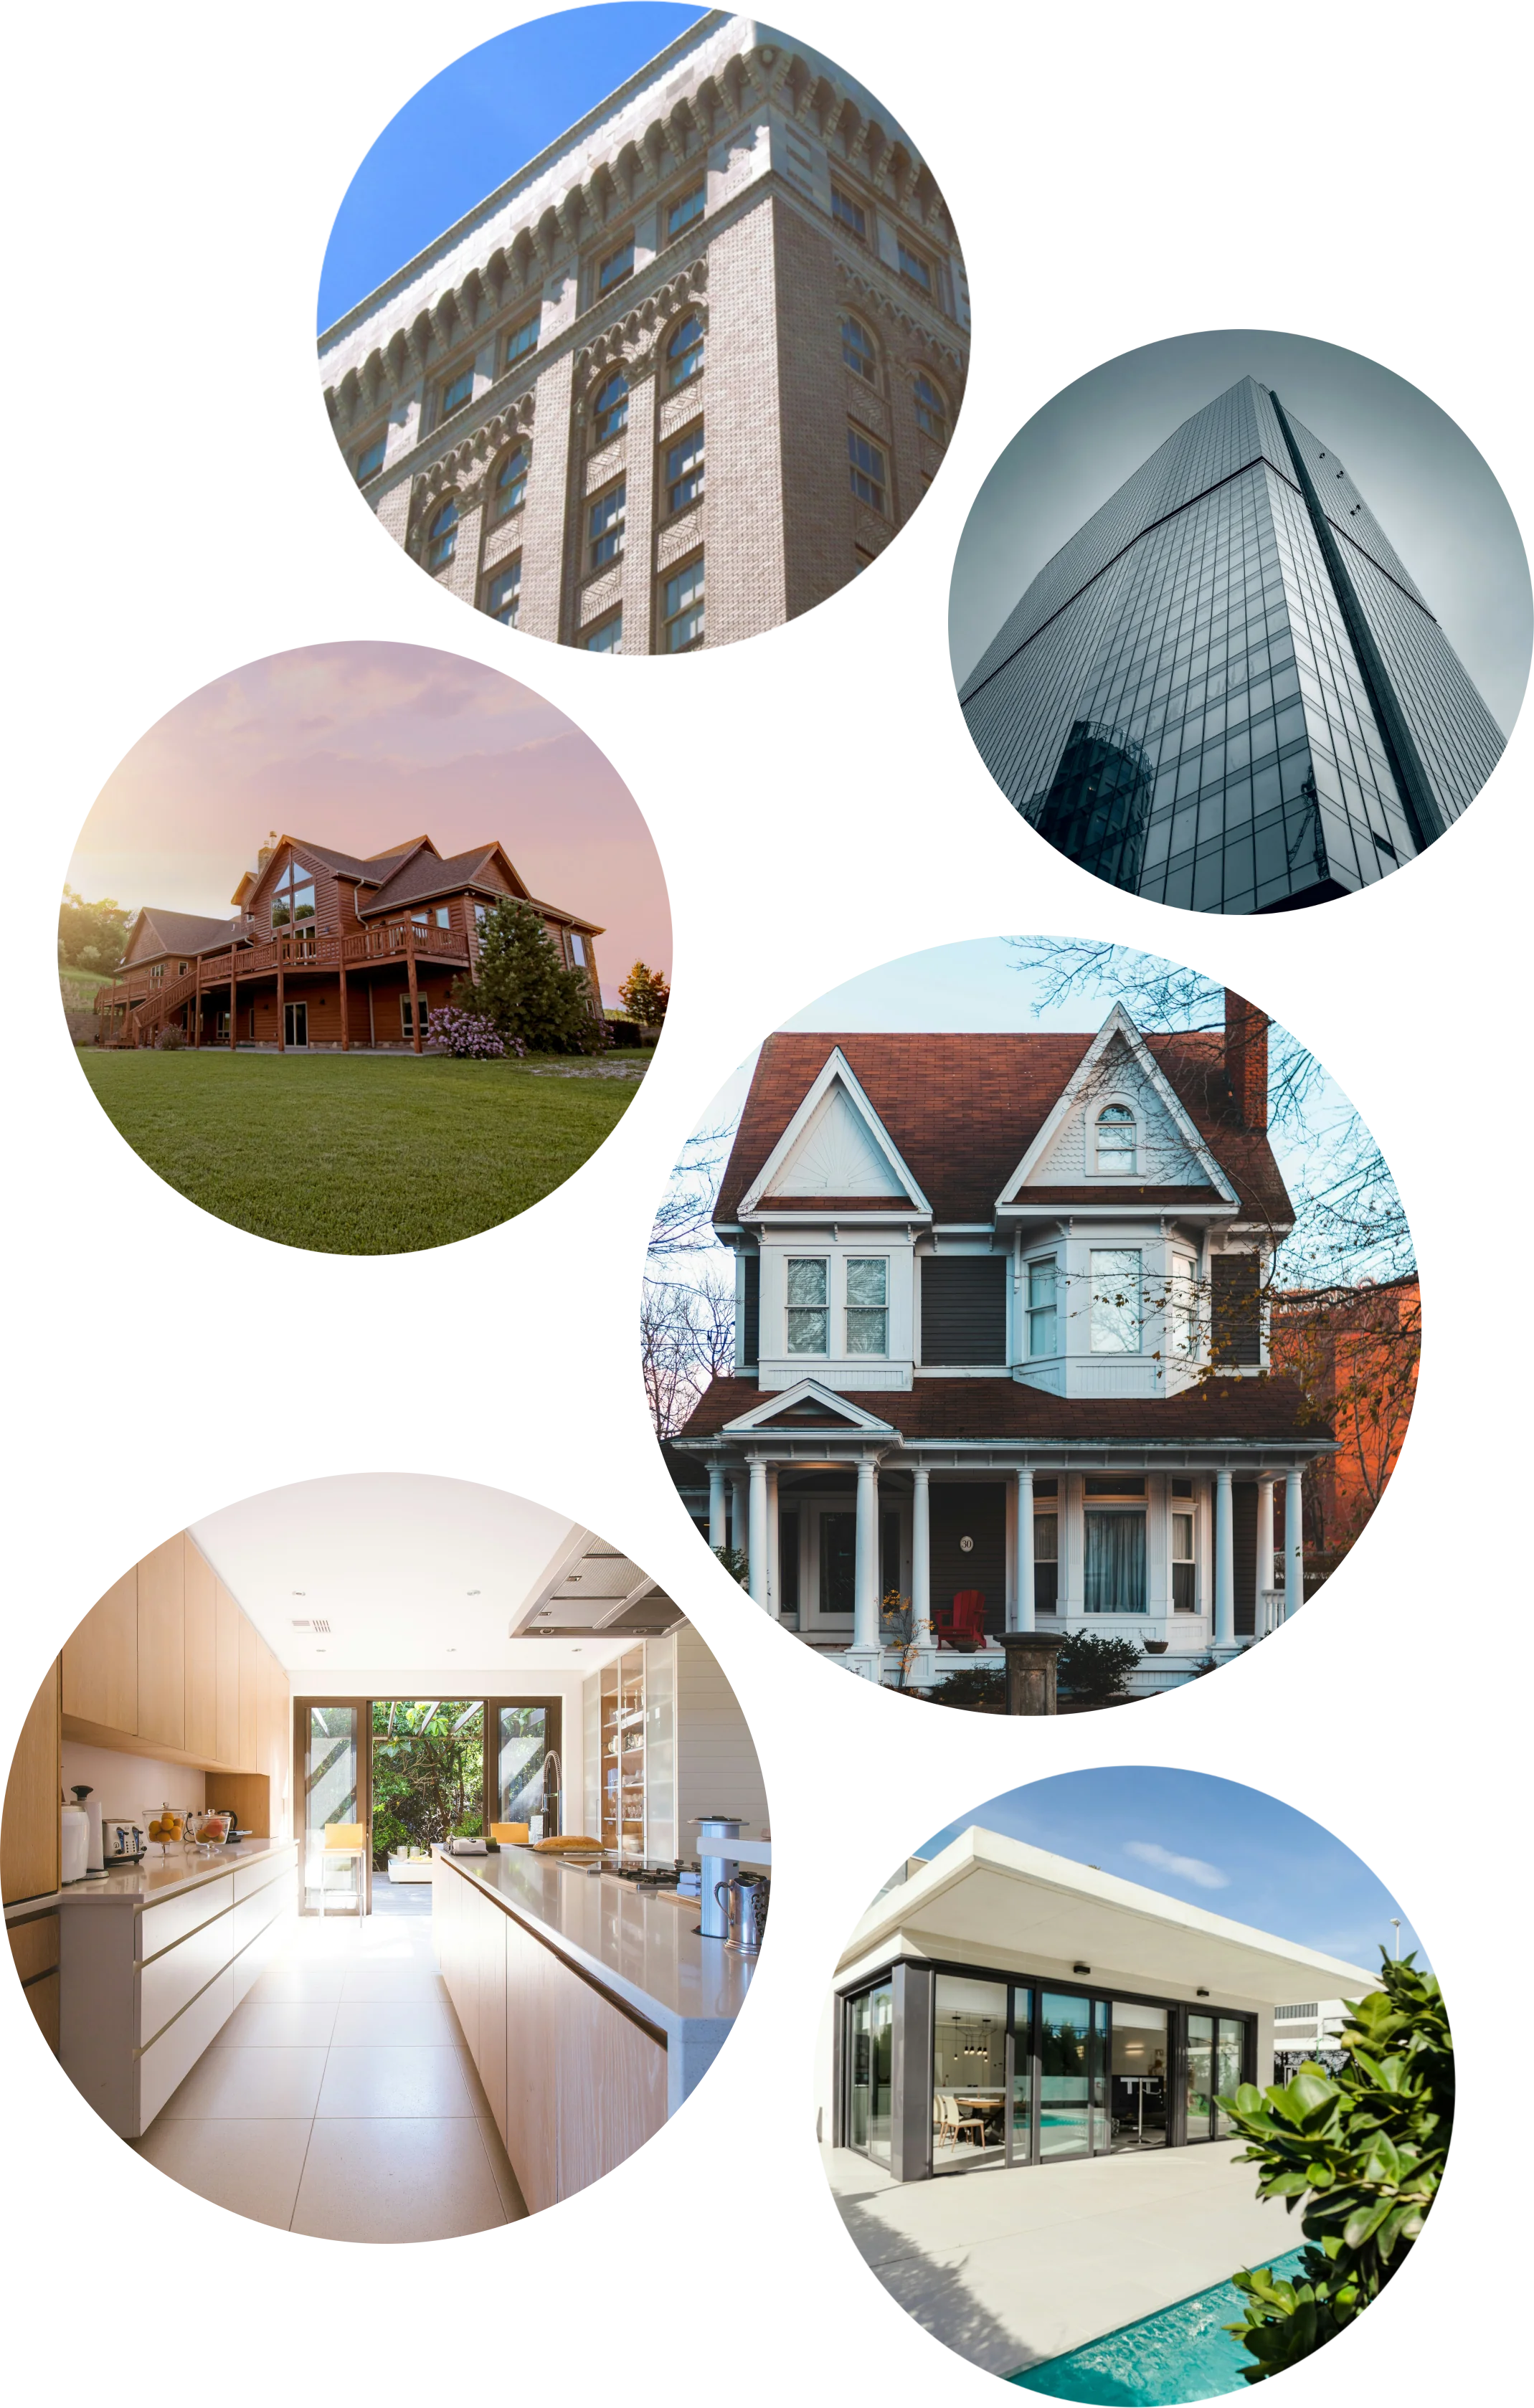
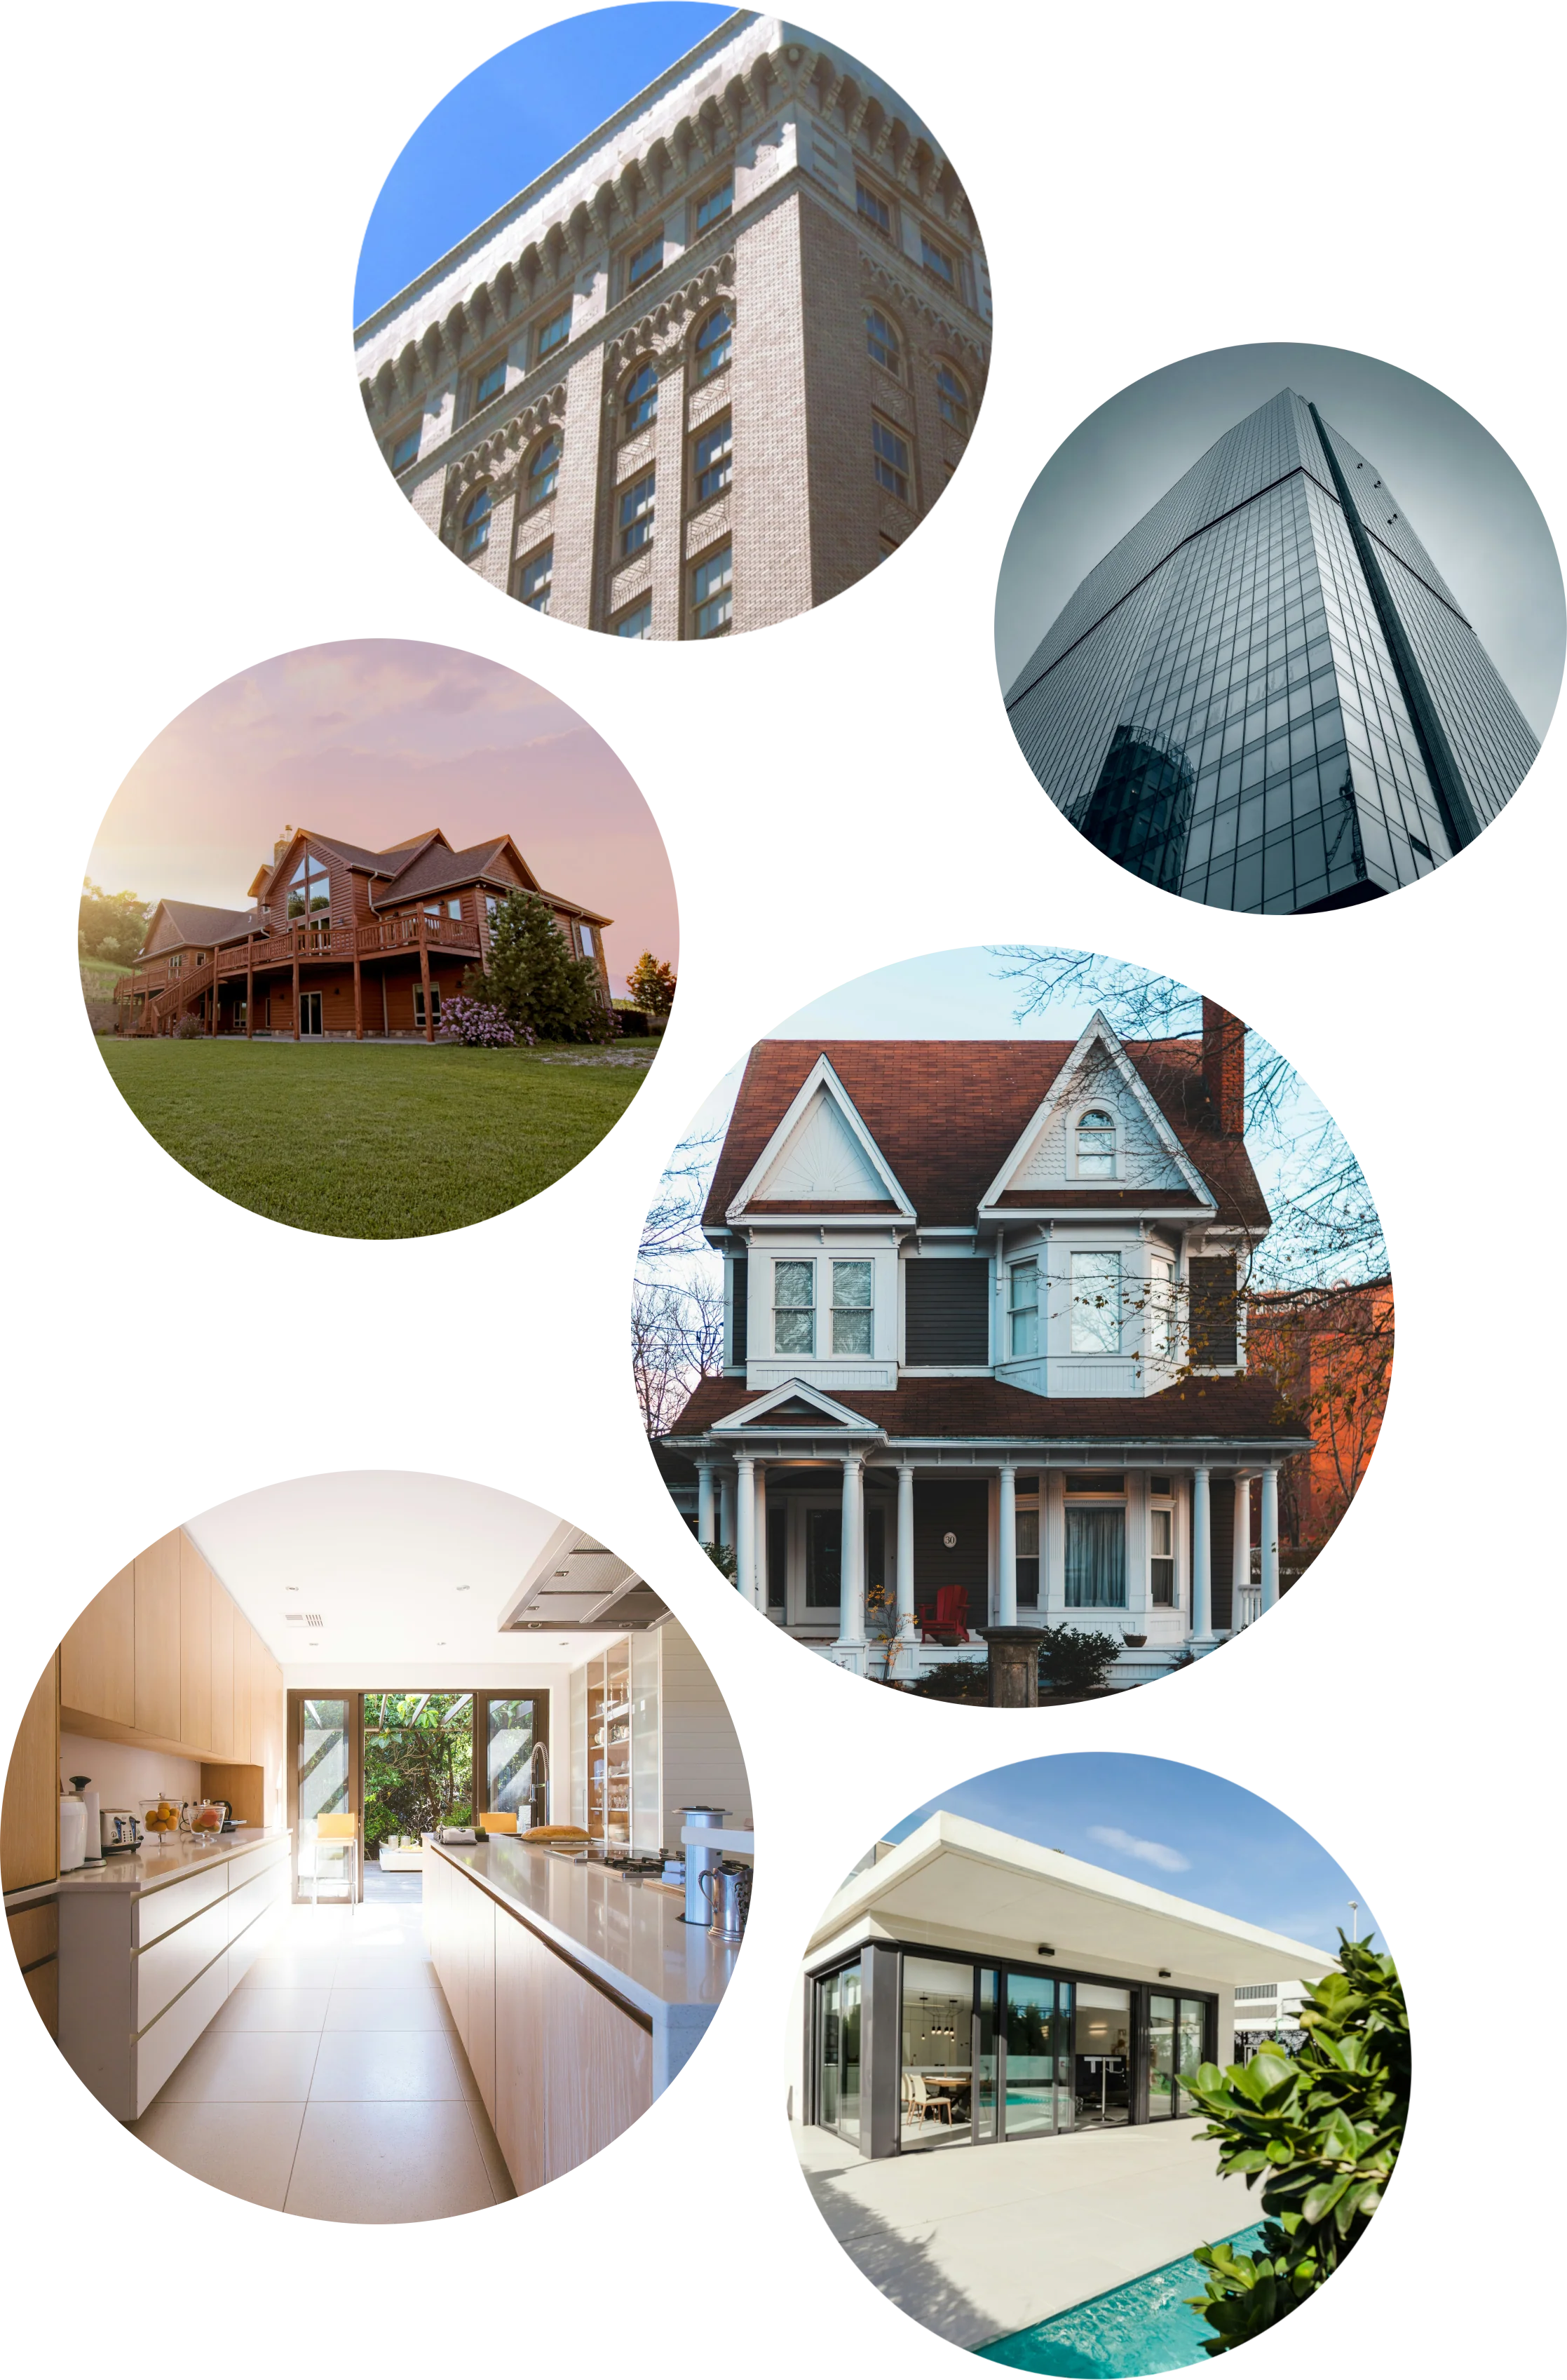
ability to handle file uploads to the backend is now implemented, along with a utility helper to check if the URL should point to the local or API files
I decided to directly continue with the general profile section instead
of the password change as the submition of the form had to eventually
change and it seemed crass to me to leave it like that without proper
error handling; that is, until implementing static asset serving now.

One thing that is left to do is to check if the files are of an
apropriate extension and size, for security reasons.

diff --git a/frontend/app/components/user-profile/EditProfileModal.tsx b/frontend/app/components/user-profile/EditProfileModal.tsx
@@ -1,8 +1,11 @@
 import { useState, useRef } from "react";
+import { useRevalidator } from "react-router";
 import { motion, AnimatePresence } from "motion/react";
 
-import type { ModalProps } from "./modalTypes";
+import type { UserProfile } from "~/data/generalData";
 import type { ProfileState } from "~/routes/user-profile";
+import type { ModalProps } from "./modalTypes";
+import { getAssetUrl } from "~/utils/display";
 
 import { GoPencil, GoX } from "react-icons/go";
 
@@ -14,25 +17,59 @@ export default function EditProfileModal({
   updateProfileState,
 }: {
   editProfileProps: ModalProps;
-  userRole: "user" | "agent";
-  userId: number;
+  userRole: UserProfile["role"];
+  userId: UserProfile["id"];
   profileState: ProfileState;
   updateProfileState: (updates: Partial<ProfileState>) => void;
 }) {
   const { isDialogOpen, dialogRef, openCloseDialog } = editProfileProps;
 
-  const handleProfileChange = async (profileState: ProfileState) => {
-    fetch(`http://localhost:3000/api/users/${userId}`, {
-      method: "PUT",
-      body: JSON.stringify(profileState),
-      credentials: "include",
-    });
-  };
+  const { revalidate, state: revalidateState } = useRevalidator();
 
-  // TODO: profile picture real update
-  const [profilePictureSrc, setProfilePictureSrc] = useState(
-    profileState.profilePicture,
-  );
+  const [selectedFile, setSelectedFile] = useState<File | null>(null);
+
+  const handleProfileChange = async (profileState: ProfileState) => {
+    const formData = new FormData();
+
+    formData.append("name", profileState.name);
+
+    if (selectedFile) {
+      formData.append("profilePicture", selectedFile);
+    }
+
+    if (userRole === "agent") {
+      if (profileState.phoneNumber)
+        formData.append("phoneNumber", String(profileState.phoneNumber));
+
+      if (profileState.bio) formData.append("bio", String(profileState.bio));
+    }
+
+    try {
+      const response = await fetch(
+        `http://localhost:3000/api/users/${userId}`,
+        {
+          method: "PUT",
+          body: formData,
+          credentials: "include",
+        },
+      );
+
+      if (response.ok) {
+        // The backend returns the new path if we have a new picture
+        const data = await response.json();
+
+        if (data.profilePicture) {
+          updateProfileState({ profilePicture: data.profilePicture });
+        }
+
+        openCloseDialog(false);
+
+        if (revalidateState === "idle") revalidate();
+      }
+    } catch (error) {
+      console.error("Failed to update profile:", error);
+    }
+  };
 
   const fileRef = useRef<HTMLInputElement>(null);
 
@@ -40,9 +77,14 @@ export default function EditProfileModal({
     const file = e.target.files?.[0];
 
     if (file) {
+      setSelectedFile(file);
       const reader = new FileReader();
 
-      reader.onload = (e) => setProfilePictureSrc(e.target?.result as string);
+      reader.onload = (e) =>
+        updateProfileState({ profilePicture: e.target?.result as string });
+      reader.onerror = (err) =>
+        console.error(`Error while handling profile picture update: ${err}`);
+
       reader.readAsDataURL(file);
     }
   };
@@ -107,10 +149,7 @@ export default function EditProfileModal({
                     <div className="relative group">
                       <div className="overflow-hidden rounded-full">
                         <img
-                          src={
-                            profilePictureSrc ||
-                            "/app/assets/images/profile-pictures/placeholder.png"
-                          }
+                          src={getAssetUrl(profileState.profilePicture)}
                           alt="Profile picture preview"
                           onClick={() => fileRef.current?.click()}
                           className="profile-picture-big cursor-pointer
@@ -118,6 +157,7 @@ export default function EditProfileModal({
                         />
                       </div>
                       <button
+                        type="button"
                         onClick={() => fileRef.current?.click()}
                         className="absolute bottom-0 right-0 profile-pencil-btn"
                       >
@@ -127,6 +167,7 @@ export default function EditProfileModal({
                     <input
                       ref={fileRef}
                       type="file"
+                      name="profilePicture"
                       accept="image/*"
                       onChange={handleFileChange}
                       className="sr-only"
@@ -158,7 +199,7 @@ export default function EditProfileModal({
                         <input
                           id="edit-phone-number"
                           type="tel"
-                          value={String(profileState.phoneNumber)}
+                          value={String(profileState.phoneNumber ?? "")}
                           onChange={(e) =>
                             updateProfileState({ phoneNumber: e.target.value })
                           }
@@ -170,7 +211,7 @@ export default function EditProfileModal({
                         <label htmlFor="edit-biography">Biography</label>
                         <textarea
                           id="edit-biography"
-                          value={String(profileState.bio)}
+                          value={String(profileState.bio ?? "")}
                           onChange={(e) =>
                             updateProfileState({ bio: e.target.value })
                           }
@@ -182,6 +223,7 @@ export default function EditProfileModal({
 
                   <fieldset className="flex justify-end gap-3 pt-2">
                     <button
+                      type="button"
                       onClick={() => openCloseDialog(false)}
                       className="px-4 py-2 text-amber-800 rounded-md
             hover:bg-amber-200/68  transition-colors cursor-pointer"
@@ -189,7 +231,7 @@ export default function EditProfileModal({
                       Cancel
                     </button>
                     <button
-                      onClick={() => openCloseDialog(false)}
+                      type="submit"
                       className="px-5 py-2 bg-amber-600/94 text-white font-medium
             rounded-md shadow-md hover:bg-amber-700/94
             transition-colors cursor-pointer"

diff --git a/backends/node-drizzle/src/index.ts b/backends/node-drizzle/src/index.ts
@@ -1,9 +1,12 @@
 import { Hono } from "hono";
 import { cors } from "hono/cors";
 import { serve } from "@hono/node-server";
+import { serveStatic } from "@hono/node-server/serve-static";
 import { type SQL, eq, and, gte, lte, like, asc } from "drizzle-orm";
 import argon2 from "argon2";
 import { z } from "zod";
+import fs from "node:fs/promises";
+import path from "node:path";
 
 import { db } from "./db/index.ts";
 import {
@@ -33,6 +36,9 @@ import type {
 } from "@free-real-estate/shared";
 
 const app = new Hono();
+
+// Serve static files
+app.use("/public/*", serveStatic({ root: "./" }));
 
 app.get("/", (c) => {
   return c.text("Free Real Estate API.");
@@ -293,16 +299,48 @@ api.put("/users/:id", requireAuth, async (c) => {
 
   if (c.get("user").id !== id) return c.json({ error: "Forbidden" }, 403);
 
-  const body = await c.req.json();
-  const { name, profilePicture, licenseNumber, phoneNumber, bio } = body;
+  // Handle both JSON and Multipart for file uploads
+  const contentType = c.req.header("Content-Type") || "";
+  let body: any;
+
+  if (contentType.includes("multipart/form-data")) {
+    body = await c.req.parseBody();
+  } else {
+    body = await c.req.json();
+  }
+
+  const { name, licenseNumber, phoneNumber, bio } = body;
+  let profilePicture = body.profilePicture;
 
   // Core users table
   const userUpdates: Partial<UserBasic> = {};
 
   if (name !== undefined) userUpdates["name"] = name;
 
-  if (profilePicture !== undefined)
-    userUpdates["profilePicture"] = profilePicture ?? "";
+  // Handle profile picture file upload
+  if (profilePicture instanceof File) {
+    const file = profilePicture;
+    const fileName = `${id}-${Date.now()}-${file.name}`; // Good enough to avoid duplicates
+
+    const filePath = path.join(
+      "public",
+      "uploads",
+      "profile-pictures",
+      fileName,
+    );
+
+    const arrayBuffer = await file.arrayBuffer();
+
+    await fs.writeFile(filePath, Buffer.from(arrayBuffer));
+
+    userUpdates["profilePicture"] =
+      `/public/uploads/profile-pictures/${fileName}`;
+  } else if (
+    typeof profilePicture === "string" &&
+    profilePicture !== undefined
+  ) {
+    userUpdates["profilePicture"] = profilePicture;
+  }
 
   if (Object.keys(userUpdates).length) {
     await db.update(users).set(userUpdates).where(eq(users.id, id));
@@ -329,7 +367,10 @@ api.put("/users/:id", requireAuth, async (c) => {
     }
   }
 
-  return c.json({ ok: true });
+  return c.json({
+    ok: true,
+    profilePicture: userUpdates.profilePicture,
+  });
 });
 
 // Promote a normal user to agent

diff --git a/frontend/app/utils/display.ts b/frontend/app/utils/display.ts
@@ -1,0 +1,27 @@
+/**
+ * Resolves a path to a full URL.
+ *
+ * Handles:
+ *   - Placeholder for no path; it's an image with a question mark
+ *   - Local Vite assets (^/app)
+ *   - Backend-uploaded files (^/public)
+ *   - External URLs (^http)
+ *   - Base64 data (^data:)
+ */
+export const getAssetUrl = (path: string | null | undefined) => {
+  if (!path) return "/app/assets/images/profile-pictures/placeholder.png";
+
+  if (
+    path.startsWith("http") ||
+    path.startsWith("data:") ||
+    path.startsWith("/")
+  ) {
+    // If it's a backend upload path (starting with /public), point to the backend server
+    if (path.startsWith("/public")) {
+      return `http://localhost:3000${path}`;
+    }
+    return path;
+  }
+
+  return path;
+};

diff --git a/frontend/app/components/Header.tsx b/frontend/app/components/Header.tsx
@@ -2,6 +2,7 @@ import { useState } from "react";
 import { GoHome } from "react-icons/go";
 import { RiMenuUnfold4Fill } from "react-icons/ri";
 import { Link, NavLink, useRouteLoaderData } from "react-router";
+import { getAssetUrl } from "~/utils/display";
 
 interface NavLinks {
   name: string;
@@ -47,12 +48,8 @@ function UserLink({ isBurger, user }: { isBurger: boolean; user: any }) {
       <div className="flex items-center gap-2">
         <span>{user.name}</span>
         <div className="relative">
-          {/* TODO: better profile picture placeholder */}
           <img
-            src={
-              user.profilePicture ||
-              "/app/assets/images/profile-pictures/placeholder.png"
-            }
+            src={getAssetUrl(user.profilePicture)}
             alt=""
             draggable={false}
             className="w-12 h-12 rounded-full object-cover"

diff --git a/frontend/app/routes/user-profile.tsx b/frontend/app/routes/user-profile.tsx
@@ -8,6 +8,7 @@ import type {
 
 import useDialog from "~/hooks/useDialog";
 import useObjectState from "~/hooks/useObjectState";
+import { getAssetUrl } from "~/utils/display";
 
 import EditProfileModal from "~/components/user-profile/EditProfileModal";
 import ChangePasswordModal from "~/components/user-profile/ChangePasswordModal";
@@ -135,10 +136,7 @@ export default function UserProfile({ loaderData }: Route.ComponentProps) {
               <div className="flex flex-col sm:flex-row items-center sm:items-start gap-6">
                 <div>
                   <img
-                    src={
-                      user.profilePicture ||
-                      "/app/assets/images/profile-pictures/placeholder.png"
-                    }
+                    src={getAssetUrl(user.profilePicture)}
                     alt={`${user.name}-profile-picture`}
                     draggable={false}
                     className="profile-picture-big"

diff --git a/frontend/app/routes/property-item.tsx b/frontend/app/routes/property-item.tsx
@@ -2,6 +2,7 @@ import type { Route } from "./+types/property-item";
 import { lazy, Suspense } from "react";
 import ClientOnly from "~/components/ClientOnly";
 import type { PropertyData, UserBasic } from "~/data/generalData";
+import { getAssetUrl } from "~/utils/display";
 
 import PropertyGallery from "~/components/property-item/Gallery";
 import {
@@ -146,7 +147,7 @@ export default function PropertyItem({ loaderData }: Route.ComponentProps) {
                   bg-amber-100/24 shadow-md rounded-lg border border-amber-200"
                 >
                   <img
-                    src={userPoster.profilePicture}
+                    src={getAssetUrl(userPoster.profilePicture)}
                     alt={userPoster.name}
                     className="w-12 h-12 sm:w-14 sm:h-14 rounded-full object-cover"
                   />

diff --git a/README.md b/README.md
@@ -136,16 +136,16 @@ The runtime is `Node.js` via `@hono/node-server`.
     - `POST /api/auth/register`: User registration.
     - `POST /api/auth/login`: User login (sets session cookie).
     - `POST /api/auth/logout`: User logout (clears session cookie).
-    - `GET /api/auth/me`: Retrieves currently authenticated user session.
+    - `GET /api/auth/me`: Verifies currently authenticated user session and retrieves the full user's profile.
   - _Users & Bookmarks_:
-    - `GET /api/users`: Gets list of agents.
+    - `GET /api/users`: Gets list of user agents (not normal users, as this is for Our Agents page).
     - `GET /api/users/:id`: Gets profile details of a specific user.
-    - `GET /api/users/:id/bookmarks`: Gets properties owned by a user (there's still logic left to do when it comes to differentiating users and agents).
-    - `GET /users/:id/properties`: Gets a user's bookmarked properties.
+    - `PUT /api/users/:id`: Updates a user's profile (name, profile picture, bio, etc).
+    - `POST /api/users/:id/promote`: Promotes a normal user to Agent status using a secret code.
+    - `GET /api/users/:id/properties`: Gets properties owned by a user.
+    - `GET /api/users/:id/bookmarks`: Gets a user's bookmarked properties.
     - `POST /api/users/:id/bookmarks`: Saves a property to a user's bookmarks.
     - `DELETE /api/users/:id/bookmarks/:propertyId`: Removes a property from a user's bookmarks.
-  - _Posts_:
-    - `GET /api/posts`: Generic blog wall or news entry fetching.
 
 ##### 1.2.1.1 Core Database Entities
 

diff --git a/frontend/README.md b/frontend/README.md
@@ -12,7 +12,9 @@ This is the frontend application for the Free Real Estate project, built as a mo
 
 ## Structure
 
-- `app/components/`: Reusable UI components.
+- `app/components/*`: Reusable UI components organized per route, or general components such as for layout at the root.
 - `app/routes/`: Individual page components.
 - `app/css/`: Tailwind customizations and global styles.
 - `app/data/`: Mock data to use as seed and legacy types (constantly migrating to API).
+- `app/hooks/`: Custom React hooks.
+- `app/utils/`: Like hooks but without state or other hooks.